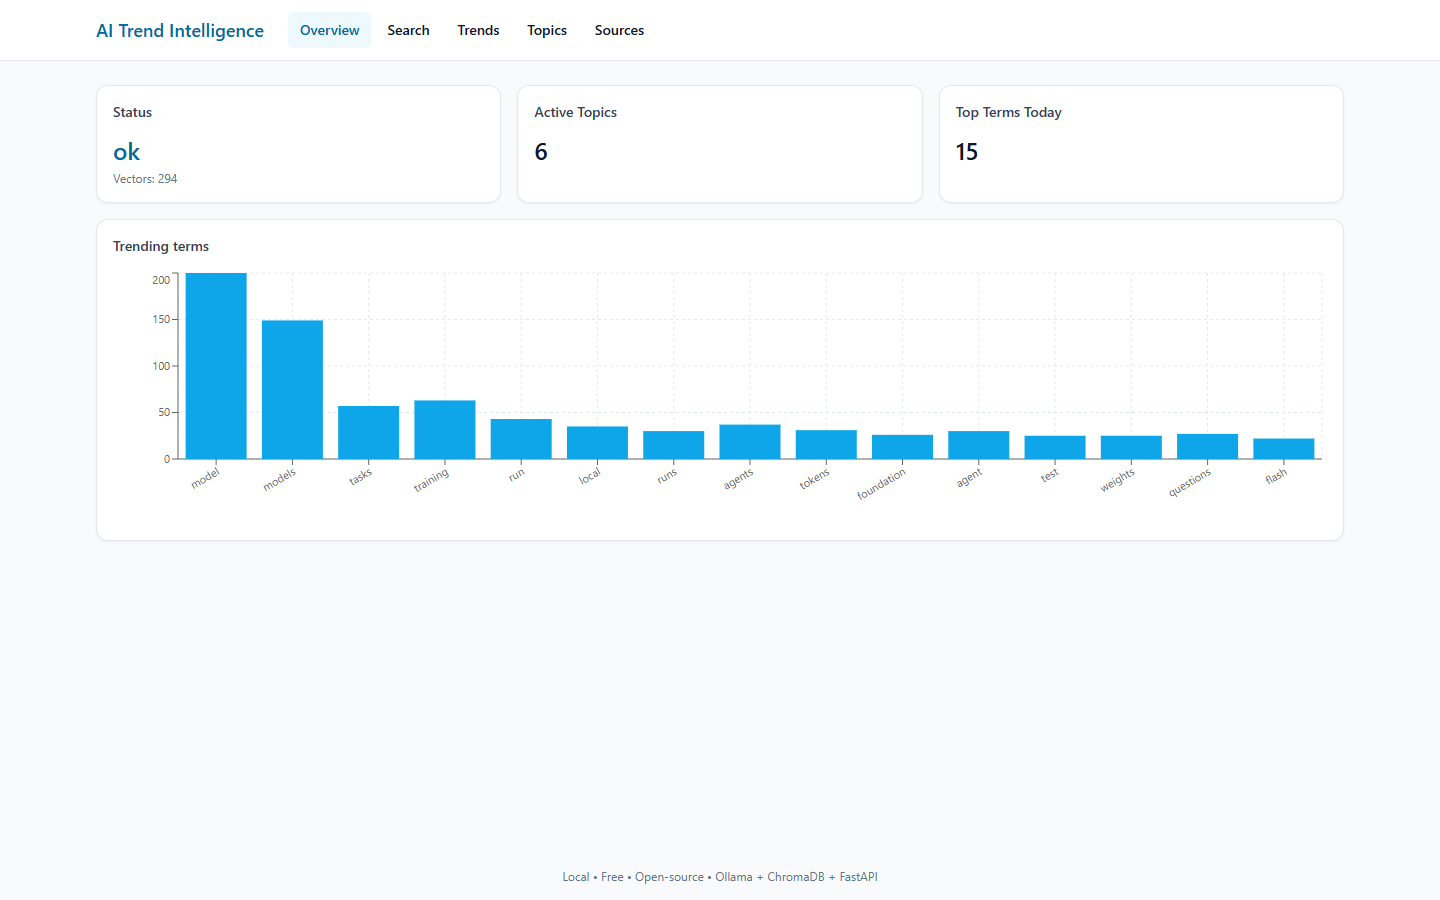
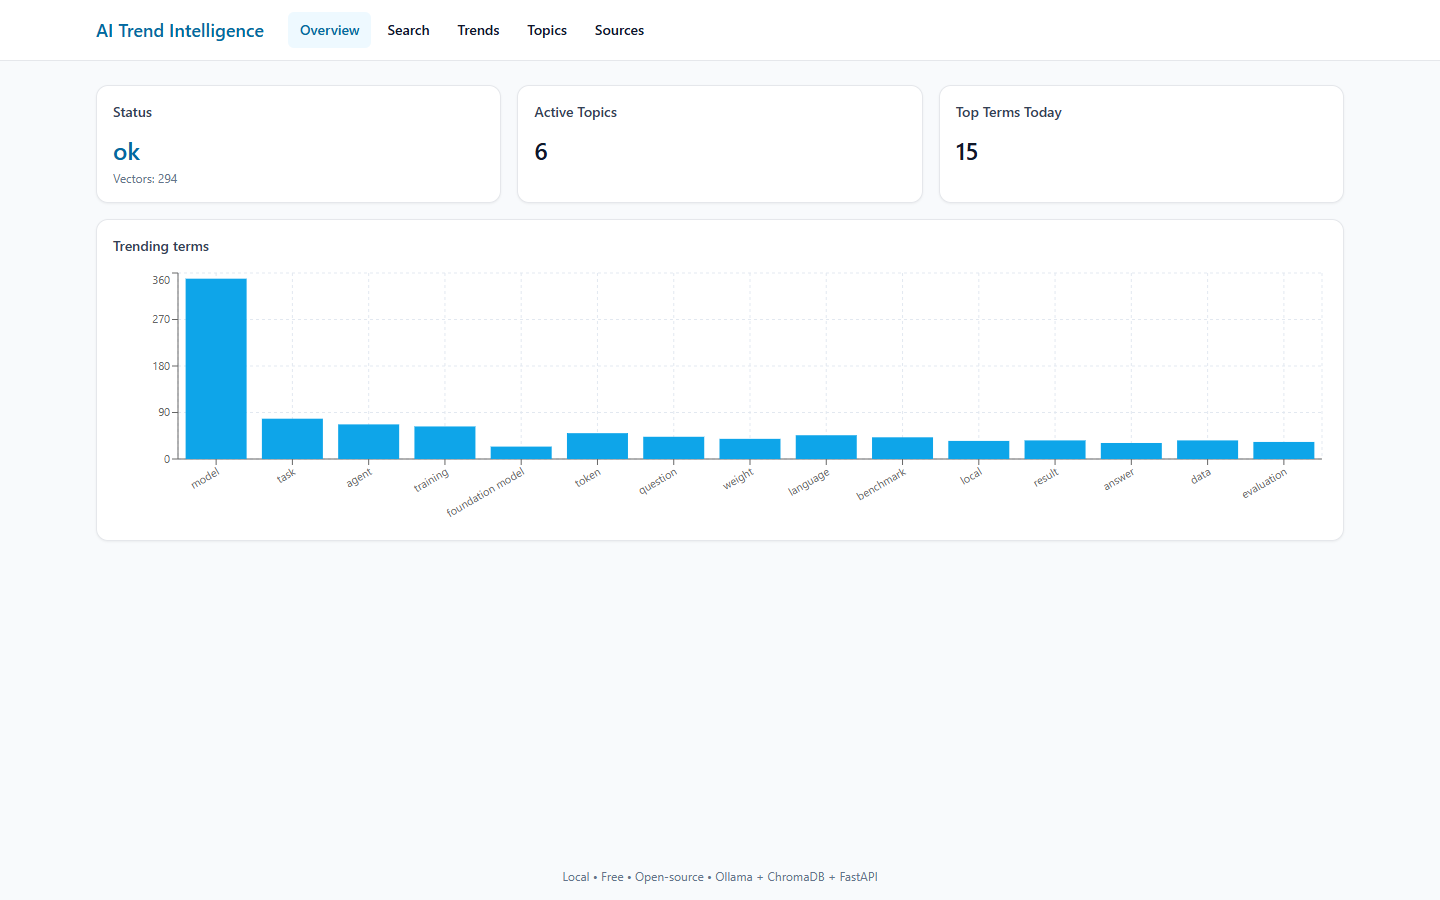
Detect two-word phrases and label topics by distinctive terms
Trends now count bigrams ("foundation model") next to single words, fold
plurals, drop words that only occur inside a kept phrase, and compare each
day with a 7-day average instead of just yesterday. Phrases get a ranking
boost in the read query so generic words like "model" don't always win.

Topic labels use TF-IDF across clusters rather than raw frequency, so
corpus-wide words lose to what sets a cluster apart.

diff --git a/backend/app/pipelines/trends.py b/backend/app/pipelines/trends.py
@@ -1,11 +1,11 @@
-"""Simple keyword-based trend detection over time buckets."""
+"""Keyword and phrase trend detection over daily buckets."""
 from __future__ import annotations
 
 import html
 import re
 from collections import Counter
 from datetime import datetime, timedelta, timezone
-from typing import Dict, List
+from typing import Dict, List, Optional
 
 from sklearn.feature_extraction.text import ENGLISH_STOP_WORDS
 from sqlalchemy import select, delete
@@ -31,6 +31,11 @@ _STOP = (set(ENGLISH_STOP_WORDS) - {"system", "computer"}) | {
     "like", "just", "don", "doesn", "didn", "isn", "way", "lot", "know",
     "really", "want", "need", "think", "make", "thing", "things", "people",
     "good", "better", "going", "time",
+    # academic filler
+    "introduce", "introduces", "effectively", "providing", "provides",
+    "leverages", "exhibits", "demonstrate", "demonstrates", "show", "shows",
+    "achieve", "achieves", "single", "real", "run", "runs", "description",
+    "semantically", "pass", "average", "existing", "recent", "different",
 }
 
 
@@ -41,12 +46,56 @@ def _clean(text: str) -> str:
     return _URL.sub(" ", text)
 
 
-def _tokens(text: str) -> List[str]:
-    out: List[str] = []
+def _singular(word: str) -> str:
+    """Fold plurals so "agents" and "agent" count as one term."""
+    if len(word) > 4 and word.endswith("s") and not word.endswith(("ss", "us", "is", "as")):
+        return word[:-1]
+    return word
+
+
+def _sequence(text: str) -> List[Optional[str]]:
+    """Tokens in order; stopwords/short words become None so phrases can't span them."""
+    out: List[Optional[str]] = []
     for t in _TOKEN.findall(_clean(text)):
-        t = t.lower().rstrip(".-")
-        if len(t) > 2 and t not in _STOP:
-            out.append(t)
+        t = _singular(t.lower().rstrip(".-"))
+        out.append(t if len(t) > 2 and t not in _STOP else None)
+    return out
+
+
+def _tokens(text: str) -> List[str]:
+    return [t for t in _sequence(text) if t]
+
+
+def _terms(text: str) -> List[str]:
+    """Unigrams plus bigrams of adjacent meaningful words ("vector database")."""
+    seq = _sequence(text)
+    terms = [t for t in seq if t]
+    terms += [
+        f"{a} {b}"
+        for a, b in zip(seq, seq[1:])
+        if a and b and a != b
+    ]
+    return terms
+
+
+def _prune_subsumed(counts: Counter, min_phrase: int = 2) -> Counter:
+    """Drop one-off phrases, and words that mostly occur inside a kept phrase.
+
+    Without this "vector" and "database" would both rank next to
+    "vector database", listing the same story three times.
+    """
+    phrases = {t: c for t, c in counts.items() if " " in t and c >= min_phrase}
+    covered: Dict[str, int] = {}
+    for phrase, c in phrases.items():
+        for w in phrase.split():
+            covered[w] = max(covered.get(w, 0), c)
+    out: Counter = Counter()
+    for term, c in counts.items():
+        if " " in term:
+            if term in phrases:
+                out[term] = c
+        elif covered.get(term, 0) < 0.6 * c:
+            out[term] = c
     return out
 
 
@@ -67,7 +116,7 @@ async def compute_daily_trends(
         if not d.published_at:
             continue
         b = _bucket_day(d.published_at)
-        counts.setdefault(b, Counter()).update(_tokens(f"{d.title} {d.content or ''}"))
+        counts.setdefault(b, Counter()).update(_terms(f"{d.title} {d.content or ''}"))
 
     # wipe day buckets we recompute
     await session.execute(delete(Trend).where(Trend.bucket.in_(list(counts.keys()))))
@@ -75,9 +124,17 @@ async def compute_daily_trends(
     buckets_sorted = sorted(counts.keys())
     out: List[Trend] = []
     for i, b in enumerate(buckets_sorted):
-        prev = counts[buckets_sorted[i - 1]] if i > 0 else Counter()
-        for term, c in counts[b].most_common(top_k):
-            delta = float(c - prev.get(term, 0))
+        # Compare with the average of up to a week of earlier days instead of
+        # just yesterday, so one quiet day doesn't make everything "rising".
+        window = [counts[x] for x in buckets_sorted[max(0, i - 7):i]]
+        kept = _prune_subsumed(counts[b])
+        # Phrases are rarer than single words, so rank the two kinds separately
+        # or they would never reach the list.
+        words = [(x, c) for x, c in kept.most_common() if " " not in x][: top_k * 3 // 5]
+        phrases = [(x, c) for x, c in kept.most_common() if " " in x][: top_k * 2 // 5]
+        for term, c in sorted(words + phrases, key=lambda tc: -tc[1]):
+            baseline = sum(w.get(term, 0) for w in window) / len(window) if window else 0.0
+            delta = round(float(c) - baseline, 2)
             t = Trend(bucket=b, term=term, count=int(c), delta=delta)
             session.add(t)
             out.append(t)

diff --git a/backend/app/pipelines/topics.py b/backend/app/pipelines/topics.py
@@ -1,8 +1,9 @@
 """Topic clustering using HDBSCAN over recent document embeddings."""
 from __future__ import annotations
 
+import math
 from collections import Counter
-from typing import List
+from typing import Dict, List, Sequence
 
 import numpy as np
 from sqlalchemy import select, delete
@@ -11,7 +12,7 @@ from sqlalchemy.ext.asyncio import AsyncSession
 from backend.app.embeddings import store
 from backend.app.embeddings.model import embed_texts
 from backend.app.models import Document, DocumentTopic, Topic
-from backend.app.pipelines.trends import _tokens
+from backend.app.pipelines.trends import _prune_subsumed, _terms
 from backend.app.utils.logging import get_logger
 
 log = get_logger(__name__)
@@ -35,6 +36,39 @@ def cluster_embeddings(X: np.ndarray, min_cluster_size: int = 5) -> np.ndarray:
         min_cluster_size=size, min_samples=2, metric="euclidean"
     )
     return clusterer.fit_predict(Z.astype(np.float64))
+
+
+def label_clusters(
+    doc_terms: Sequence[Sequence[str]], labels: Sequence[int], top_n: int = 8
+) -> Dict[int, List[str]]:
+    """Distinctive keywords per cluster (TF-IDF over clusters).
+
+    A term scores high when it appears in many documents of the cluster but in
+    few documents overall, so corpus-wide words ("model") lose to what actually
+    sets the cluster apart ("diffusion model", "image generation").
+    """
+    n = len(doc_terms)
+    global_df: Counter = Counter()
+    for terms in doc_terms:
+        global_df.update(set(terms))
+
+    out: Dict[int, List[str]] = {}
+    for cid in sorted(set(labels) - {-1}):
+        members = [t for t, l in zip(doc_terms, labels) if l == cid]
+        df: Counter = Counter()
+        for terms in members:
+            df.update(set(terms))
+        need = max(2, min(len(members) // 5, 4))
+        scored = Counter(
+            {
+                term: (c / len(members)) * math.log(1 + n / global_df[term])
+                for term, c in df.items()
+                if c >= need
+            }
+        )
+        kept = _prune_subsumed(scored, min_phrase=0)
+        out[cid] = [w for w, _ in kept.most_common(top_n)]
+    return out
 
 
 async def cluster_topics(
@@ -62,15 +96,15 @@ async def cluster_topics(
     await session.execute(delete(DocumentTopic))
     await session.execute(delete(Topic))
 
+    doc_terms = [_terms(t) for t in texts]
+    keywords_by_cluster = label_clusters(doc_terms, labels)
+
     out: List[Topic] = []
     for cid in sorted(set(labels)):
         if cid == -1:
             continue
         members = [d for d, l in zip(docs, labels) if l == cid]
-        kw_counter: Counter = Counter()
-        for m in members:
-            kw_counter.update(_tokens(f"{m.title} {m.content or ''}"))
-        keywords = [w for w, _ in kw_counter.most_common(8)]
+        keywords = keywords_by_cluster.get(cid, [])
         label = ", ".join(keywords[:3]) or f"topic-{cid}"
         topic = Topic(
             label=label[:256],

diff --git a/backend/tests/test_trends_tokens.py b/backend/tests/test_trends_tokens.py
@@ -15,9 +15,38 @@ def test_tokens_ignore_html_entities_urls_and_english_filler():
     assert "x27" not in toks and "x2f" not in toks
     assert "https" not in toks and "example" not in toks
     assert "which" not in toks and "across" not in toks
-    assert "models" in toks
+    assert "model" in toks
 
 
 def test_tokens_keep_tech_terms():
     toks = _tokens("C++ and Rust beat the computer vision system, again.")
     assert {"c++", "rust", "computer", "vision", "system"} <= set(toks)
+
+
+def test_terms_build_bigrams_that_do_not_cross_stopwords():
+    from backend.app.pipelines.trends import _terms
+
+    terms = _terms("Vector database for retrieval augmented generation")
+    assert "vector database" in terms
+    assert "retrieval augmented" in terms and "augmented generation" in terms
+    assert "database retrieval" not in terms  # "for" sits between them
+
+
+def test_prune_subsumed_keeps_phrase_and_drops_its_words():
+    from collections import Counter
+
+    from backend.app.pipelines.trends import _prune_subsumed
+
+    pruned = _prune_subsumed(
+        Counter({"vector database": 5, "vector": 5, "database": 6, "agents": 4, "rare phrase": 1})
+    )
+    assert "vector database" in pruned
+    assert "vector" not in pruned and "database" not in pruned  # 6 vs 5 -> covered
+    assert "agents" in pruned
+    assert "rare phrase" not in pruned
+
+
+def test_plurals_fold_to_one_term():
+    toks = _tokens("Agents and an agent use tools; one tool, many models, one model")
+    assert toks.count("agent") == 2 and toks.count("tool") == 2 and toks.count("model") == 2
+    assert "bias" in _tokens("hidden bias") and "class" in _tokens("one class")

diff --git a/backend/tests/test_trends_service.py b/backend/tests/test_trends_service.py
@@ -32,3 +32,25 @@ def test_default_is_latest_day_and_explicit_bucket_still_works():
     assert {r["bucket"] for r in latest} == {"2026-11-10"}
     assert [r["term"] for r in latest] == ["agents", "models"]
     assert [r["term"] for r in explicit] == ["models"]
+
+
+async def _phrase_run():
+    engine = create_async_engine("sqlite+aiosqlite:///:memory:")
+    async with engine.begin() as conn:
+        await conn.run_sync(Base.metadata.create_all)
+    Session = async_sessionmaker(engine, expire_on_commit=False)
+    async with Session() as s:
+        s.add_all(
+            [
+                Trend(bucket="2026-11-10", term="model", count=60, delta=40.0),
+                Trend(bucket="2026-11-10", term="foundation model", count=25, delta=24.0),
+            ]
+        )
+        await s.commit()
+        rows = await list_trends(s)
+    await engine.dispose()
+    return rows
+
+
+def test_phrases_outrank_generic_words_with_a_similar_rise():
+    assert [r["term"] for r in asyncio.run(_phrase_run())][0] == "foundation model"

diff --git a/backend/tests/test_topics_clustering.py b/backend/tests/test_topics_clustering.py
@@ -25,3 +25,17 @@ def test_cluster_embeddings_separates_distinct_groups():
 def test_cluster_embeddings_handles_tiny_input():
     labels = cluster_embeddings(_blobs(groups=1, per_group=6), min_cluster_size=5)
     assert len(labels) == 6
+
+
+def test_label_clusters_prefers_distinctive_phrases_over_common_words():
+    from backend.app.pipelines.topics import label_clusters
+    from backend.app.pipelines.trends import _terms
+
+    img = ["diffusion model image generation", "image generation with diffusion model"] * 3
+    llm = ["llm agents tool use", "agents call tool use llm"] * 3
+    docs = [_terms(t + " model") for t in img + llm]
+    labels = [0] * 6 + [1] * 6
+    kw = label_clusters(docs, labels)
+    assert "diffusion model" in kw[0] or "image generation" in kw[0]
+    assert "model" not in kw[0][:2]  # shared by every doc, so not distinctive
+    assert any("agents" in k or "llm" in k for k in kw[1][:3])

diff --git a/backend/app/services/trends.py b/backend/app/services/trends.py
@@ -3,7 +3,7 @@ from __future__ import annotations
 
 from typing import List
 
-from sqlalchemy import select, desc, func
+from sqlalchemy import case, select, desc, func
 from sqlalchemy.ext.asyncio import AsyncSession
 
 from backend.app.models import Trend
@@ -19,7 +19,10 @@ async def list_trends(
     q = select(Trend)
     if bucket:
         q = q.where(Trend.bucket == bucket)
-    q = q.order_by(desc(Trend.delta), desc(Trend.count)).limit(limit)
+    # A two-word phrase says more per mention than a single word and is rarer,
+    # so weight it up; otherwise generic words like "model" always win.
+    weight = case((Trend.term.like("% %"), 2.0), else_=1.0)
+    q = q.order_by(desc(Trend.delta * weight), desc(Trend.count)).limit(limit)
     rows = (await session.execute(q)).scalars().all()
     return [
         {
